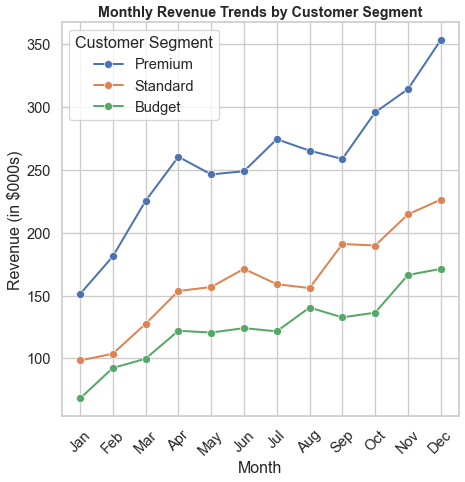
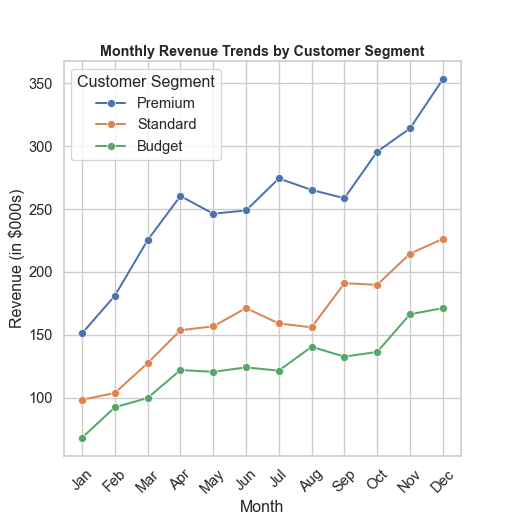
edit

diff --git a/chart.py b/chart.py
@@ -37,7 +37,8 @@ df = pd.DataFrame(data, columns=["Month", "Segment", "Revenue"])
 sns.set_style("whitegrid")
 sns.set_context("talk")
 
-plt.figure(figsize=(8, 8))  # ensures 512x512 with dpi=64
+# IMPORTANT: dpi * figsize = 512
+fig = plt.figure(figsize=(8, 8), dpi=64)
 
 sns.lineplot(
     data=df,
@@ -55,7 +56,8 @@ plt.xticks(rotation=45)
 plt.legend(title="Customer Segment", loc="upper left")
 
 # -----------------------
-# Save chart
+# Save chart (force exact size)
 # -----------------------
-plt.savefig("chart.png", dpi=64, bbox_inches="tight")
+# bbox_inches="tight" can shrink canvas → remove it
+plt.savefig("chart.png", dpi=64, pad_inches=0)
 plt.close()
